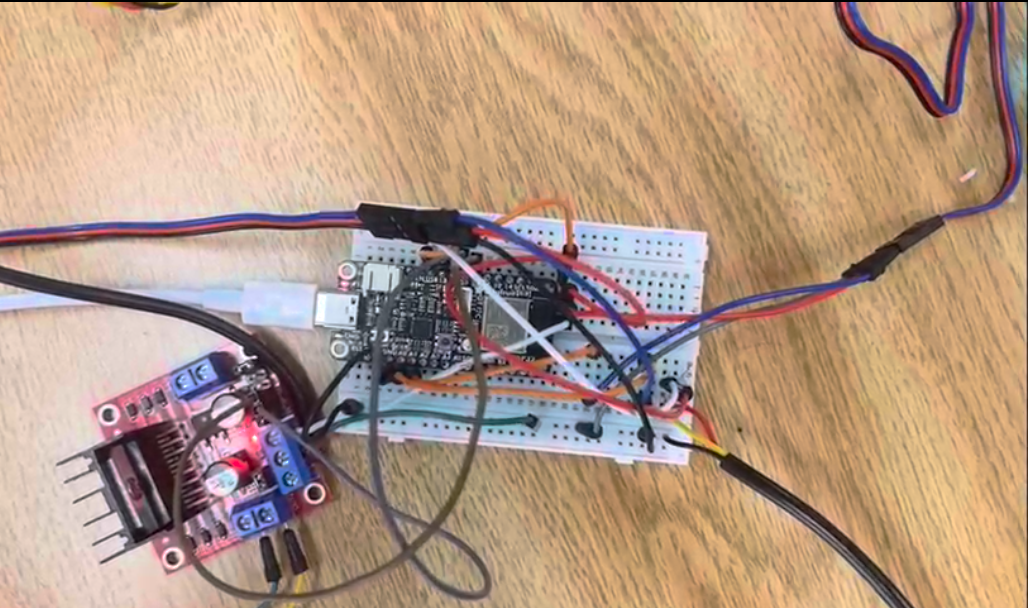
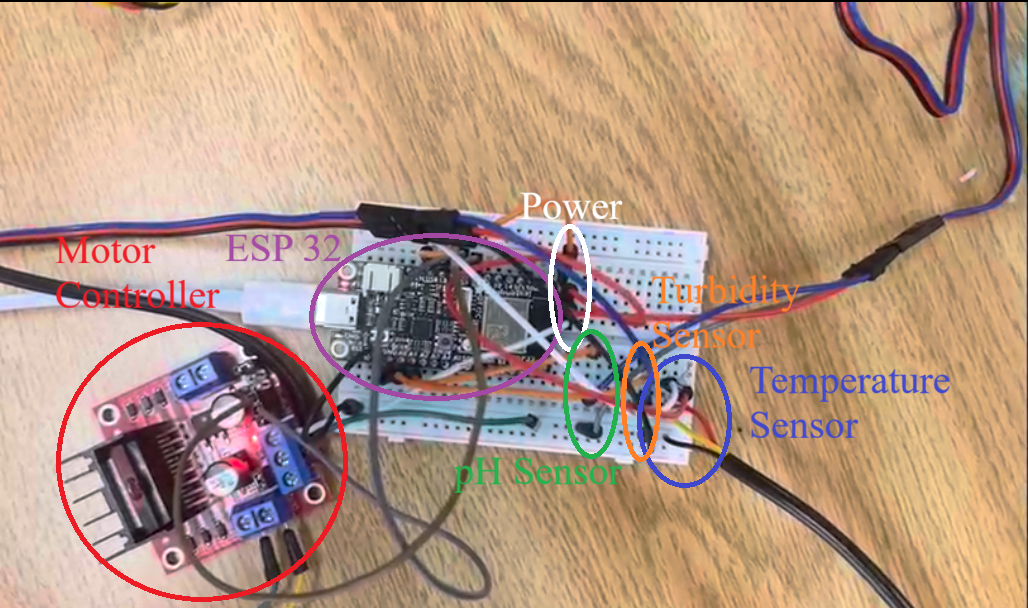
fix: added labels to breadboard.png

diff --git a/PROJECTSTORY.md b/PROJECTSTORY.md
@@ -13,6 +13,8 @@ At the core of the system is an ESP-32 microcontroller that integrates a tempera
 
 ![Breadboard](https://raw.githubusercontent.com/tanujkart/nemo/refs/heads/master/breadboard.png)
 
+![Breadboard Diagram](https://raw.githubusercontent.com/tanujkart/nemo/refs/heads/master/diagram.png)
+
 The submarine is powered by a motor housed in a 3D-printed, sealed enclosure.
 
 On the software side, data is continuously collected from each sensor. Sensor readings get packaged into structured data, including location, time, and water quality measurements. All of the data collected by the submarine is streamed to a live monitoring dashboard through our ESP-32’s Wi-fi functionality. Here, researchers can see real-time measurements for key indicators in either 3D or 2D.
